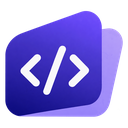
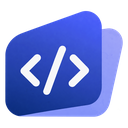
mock(brand): use the accent blue for the ketPlus lockup and mark
Plus, the Pro frame and the Pro text now use the kit's accent-text token
instead of the indigo brand colour, and the mark artwork is hue-shifted to
the same blue (hue only; saturation, value and alpha kept) for all three
sizes from one master. Brand evidence is regenerated.

diff --git a/mockups/qt/qml/parts/BrandLockup.qml b/mockups/qt/qml/parts/BrandLockup.qml
@@ -9,7 +9,11 @@ Item {
     property real size: 17
     property bool dark: KetTheme.dark
     property color textColor: KetTheme.t.textMain
-    readonly property color brandColor: dark ? "#AD97FA" : "#4332C8"
+    // "Plus", the Pro frame and its text are the interface's accent: the kit's accent-text
+    // token. A specimen drawn in the other theme (the Brand screen) uses that theme's value of
+    // the same token, which KetTheme does not expose for the theme it is not in.
+    readonly property color brandColor: dark === KetTheme.dark ? KetTheme.t.accentText
+                                        : dark ? "#9EB5FF" : "#1238DB"
     readonly property real markSize: size * 1.45
     implicitWidth: markSize + markSize * 0.12 + word.implicitWidth
                    + (edition === "pro" ? size * 0.3 + badge.width : 0)

diff --git a/mockups/qt/README.md b/mockups/qt/README.md
@@ -323,17 +323,19 @@ wordmark pixel size so the icon has more presence.
 The supplied KetPlusMark PNG is cropped to artwork bounds (alpha ≥ 8/255 ignores
 near-transparent isolated noise), centred in a square with a 4% margin on each
 side of the final square (rounded to whole pixels), and resampled to 1024, 128
-and 64 px. The original is unchanged. Sampled
-colours are mid indigo `#4332C8` and lilac `#AD97FA`; the latter is used on dark
-surfaces for contrast.
+and 64 px. The artwork's hue is shifted from
+its original hue to the interface accent blue (hue 228.7°, the kit's `accent-text`); only
+hue changes, saturation, value and alpha are kept, and all three sizes come from
+the one 1024 px master.
 
 `BrandLockup` owns mark geometry and wordmark spacing. KÉT Sans Bold (700,
 registered by Qt as `KET Sans`) is embedded; smoke checks the resolved family,
-Bold face and weight. `ket` follows the main text colour, `Plus` the brand
-indigo, with −0.015 em letter spacing. Pro uses KÉT Sans Bold (700) at 0.6×,
+Bold face and weight. `ket` follows the main text colour, `Plus` the kit's
+`accent-text` token (`#1238DB` light, 7.4:1 on the sidebar `#F7F5F5`; `#9EB5FF`
+dark, 8.65:1 on `#171B20`), with −0.015 em letter spacing. Pro uses KÉT Sans Bold (700) at 0.6×,
 a transparent rounded frame with a 1.5 px stroke scaled with interface zoom,
 0.35 em horizontal / 0.12 em vertical padding, and a 0.3 em wordmark gap.
-The brand colours are scoped specimen values, not global theme replacements.
+The frame and Pro text use the same token; there is no separate brand colour.
 
 The Brand navigation entry retains the approved lockup specimens.
 The badge is centred on the wordmark’s x-height; its fractional

diff --git a/mockups/qt/evidence/brand/README.md b/mockups/qt/evidence/brand/README.md
@@ -12,7 +12,8 @@ screen/state entries and zero QML problems. Resolved font: `KET Sans / Bold /
 weight 700` (QFontInfo and QRawFont). Sidebar geometry checks passed for light
 and dark at zoom 1 and the supported maximum 3. A rendered dark Settings view
 at zoom 3 was also inspected: the brand remained fully inside its 720 px sidebar.
-Lilac `#AD97FA` against sidebar `#171B20` has WCAG contrast 7.07:1.
+The accent-text blue of "Plus" and the Pro badge has WCAG contrast 7.4:1
+(`#1238DB` on sidebar `#F7F5F5`) and 8.65:1 (`#9EB5FF` on `#171B20`).
 `QT_QPA_PLATFORM=offscreen ctest --test-dir build/mock` found no registered tests;
 the mock uses its executable smoke checks. Offscreen platform messages about
 size hints and the pre-existing Sans Serif alias are not QML warnings.
